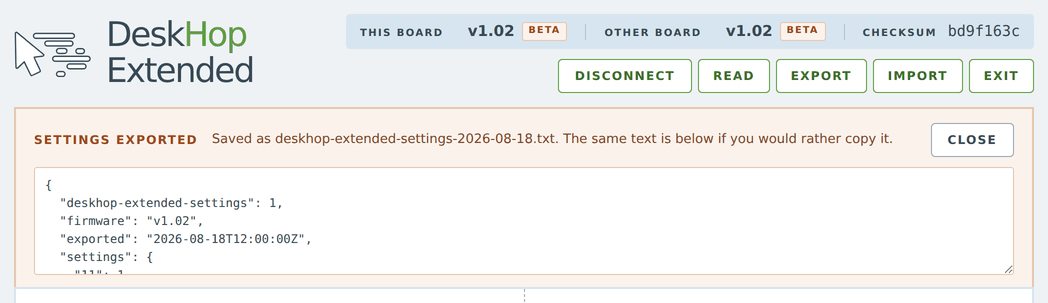
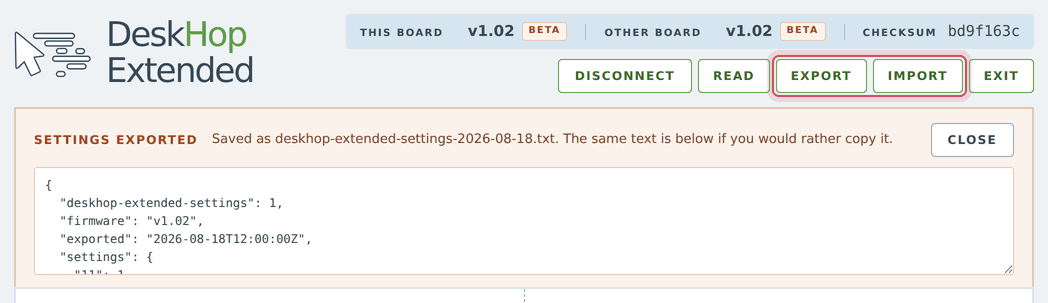
Reorder what's extended, ring the export and import buttons
Leads with what is fixed and what the page looks like now, then the settings
in the order they sit on the page, then the mechanics behind them. One rounded
ring around Export and Import in the close-up, drawn as an overlay - an outline
on each would be two rings.

Changed region(s): [[0.7328, 0.1485, 0.9466, 0.3564]]

diff --git a/misc/shoot-config-page.py b/misc/shoot-config-page.py
@@ -60,10 +60,8 @@ PAD = 14
 # Run between shots so each one is framed on a page in its resting state, whatever the
 # one before it did to get its picture taken. Keeps BOXES order-independent.
 RESET = """() => {
-    const injected = document.getElementById('shot-style');
+    document.querySelectorAll('[data-shot]').forEach(e => e.remove());
 
-    if (injected)
-      injected.remove();
     if (!el('backup').hidden)
       closeBackupHandler();
 }"""
@@ -89,7 +87,7 @@ BOXES = {
         "setup": """() => {
             const style = document.createElement('style');
 
-            style.id = 'shot-style';
+            style.dataset.shot = '';
             style.textContent = `.swap {
                 outline: 2px solid #d1495b;
                 outline-offset: 4px;
@@ -109,9 +107,36 @@ BOXES = {
     }""",
     # The whole header down through the panel, so Export and Import are in the frame next
     # to what pressing Export gets you. From the top of the header rather than the button
-    # row, which would saw the wordmark in half.
+    # row, which would saw the wordmark in half. One ring around the pair, drawn as an
+    # overlay rather than as an outline on each, which would be two rings.
     "config-backup": {
-        "setup": """() => exportHandler()""",
+        "setup": """() => {
+            exportHandler();
+
+            const box = ['exportHandler', 'importHandler']
+                .map(h => document.querySelector(`[data-handler="${h}"]`).getBoundingClientRect())
+                .reduce((a, b) => ({
+                    x: Math.min(a.x, b.x), y: Math.min(a.y, b.y),
+                    right: Math.max(a.right, b.right), bottom: Math.max(a.bottom, b.bottom),
+                }));
+            const ring = document.createElement('div');
+            const pad = 4;
+
+            ring.dataset.shot = '';
+            Object.assign(ring.style, {
+                position: 'absolute',
+                left: `${window.scrollX + box.x - pad}px`,
+                top: `${window.scrollY + box.y - pad}px`,
+                width: `${box.right - box.x + 2 * pad}px`,
+                height: `${box.bottom - box.y + 2 * pad}px`,
+                border: '2px solid #d1495b',
+                borderRadius: '7px',
+                boxShadow: '0 0 0 5px rgba(209, 73, 91, .16)',
+                pointerEvents: 'none',
+                zIndex: '50',
+            });
+            document.body.appendChild(ring);
+        }""",
         "box": """() => {
             const header = document.querySelector('.hdr').getBoundingClientRect();
             const panel = el('backup').getBoundingClientRect();

diff --git a/README.md b/README.md
@@ -1,19 +1,20 @@
 # DeskHop Extended - Fast Desktop Switching
 
-DeskHop is a small piece of open hardware - two Raspberry Pi Picos with a galvanic isolator
-between them - that lets a single keyboard and mouse drive two computers. You switch with a
+DeskHop is a small piece of open hardware (two Raspberry Pi Picos with a galvanic isolator
+between them) that lets a single keyboard and mouse drive two computers. You switch with a
 keyboard shortcut, or simply by dragging the mouse pointer off the edge of one screen and onto the
 other; the keyboard follows the mouse, so it feels like one machine. Nothing is installed on
-either computer - both just see ordinary USB HID devices - so it works across Linux, macOS and
+either computer; both just see ordinary USB HID devices, so it works across Linux, macOS and
 Windows.
 
 DeskHop Extended is a downstream integration build of
 [hrvach/deskhop](https://github.com/hrvach/deskhop). All the hardware, the design and effectively
 all of the firmware are upstream's work. This repository exists to run upstream *plus* the fixes
 that are still waiting on review there, plus two features and a rewritten config page that suit
-how I use the device day to day. If you want the canonical project, go upstream - this is for
-people who want those pending fixes now. [What's extended](#whats-extended) is the exact delta;
-everything after it is upstream's own README, reproduced unchanged.
+how I use the device day to day. Upstream remains the canonical project and is the better
+starting point for most people; this build is here for anyone who would rather not wait for those
+fixes to land. [What's extended](#whats-extended) is the exact delta; everything after it is
+upstream's own README, reproduced unchanged.
 
 ## What's extended
 
@@ -34,7 +35,7 @@ so they can be used before (and regardless of whether) they land upstream:
 
 The PIO USB host library in `Pico-PIO-USB/` is a vendored copy of upstream 0.5.3. Upstream has moved
 on to 0.7.2, but its 0.6.0 rewrite replaced the transmit encoder and the PIO allocation, which the
-bundled TinyUSB host controller driver was never built against - so rather than bump the whole
+bundled TinyUSB host controller driver was never built against. Rather than bump the whole
 library, these fixes are backported onto the 0.5.3 base:
 
 - [512d3a2](https://github.com/sekigon-gonnoc/Pico-PIO-USB/commit/512d3a2) - puts `calc_usb_crc16`
@@ -50,10 +51,67 @@ library, these fixes are backported onto the 0.5.3 base:
 
 Also completed here: the edge-detector fix carried in the vendored `usb_rx.pio` had never actually
 been built. The generated `usb_rx.pio.h` sitting next to `pio_usb.c` wins the `#include` over the
-one CMake generates, and it had not been regenerated - so the shipped binary kept the 0.5.3 program.
+one CMake generates, and it had not been regenerated, so the shipped binary kept the 0.5.3 program.
 The `.pio` source was also missing the `in pins, 1` capture that upstream's version of the same fix
 keeps, without which end-of-packet is never signalled. Both edge-detector programs now match
 upstream 0.7.2 instruction for instruction, and the checked-in header is regenerated from them.
+
+### Rewritten web config page
+
+Upstream's page is already a single page with Output A and Output B side by side, but each output is
+a flat list of raw fields, with a button column on the left and Common Config / Device Status
+underneath. This rewrite keeps the two output columns and groups each one into labelled
+sections: operating system, arrangement (screen count, side, monitor diagram, screen alignment),
+cursor (park preview, speed) and keep awake (mode preview, idle toggle, timers). All of it is
+driven by segmented pickers, steppers and toggles rather than bare inputs. Shared settings sit below both columns, the device
+buttons move into the header, and Save becomes a sticky footer with an unsaved-changes indicator.
+Same WebHID protocol and same 64 kB flash budget. See
+[Web configuration mode](#web-configuration-mode) for how to reach it.
+
+![The rewritten DeskHop Extended config page](img/config-page-extended.png)
+
+<p align="center"><em>The top of the page: both outputs side by side, down through Arrangement.
+Cursor, Keep awake and the shared settings continue below it. Values shown are a sample
+configuration.</em></p>
+
+Because upstream's README below is reproduced unchanged, its screenshots and its instruction to
+"click *exit* in the menu" still show upstream's page. On this build, Exit sits in the header.
+Everything else in those steps applies as written.
+
+### Both boards on one page
+
+The header shows the firmware version of the board you are connected to and of the other
+one, flagging it when the two differ. The version was already crossing the link once a
+second in the heartbeat and being discarded; it is now kept and exposed read-only. A dash
+means nothing has been heard from the other board: it is unpowered, or the link is down.
+
+Worth having because the boards push firmware at each other automatically when their
+versions differ, so a half-finished propagation is a state you want to be able to see.
+
+### Export and import settings
+
+Export saves every setting the page exposes to a `.txt` file; Import reads one back, either
+by picking the file or by pasting it in. Settings are keyed by the numbers in `api_field_map`
+(`src/protocol.c`), which name a field rather than a position in the config struct, so an
+export stays readable across firmware versions that add, drop or reorder fields. Unknown
+keys are reported and skipped rather than silently misapplied. Import only fills in the page;
+nothing reaches the device until you press Save.
+
+![Export and Import in the header, and the panel Export opens](img/config-backup.png)
+
+<p align="center"><em>Export writes the file and shows the same text in the panel, in case you
+would rather copy it than keep a download.</em></p>
+
+### Swapping the output columns
+
+Which output is drawn in the left-hand column is a saved setting, so the page can match how
+the boards actually sit on your desk. Output A is drawn first by default; the Swap control
+in the top right of the output bar flips it, and the choice is stored on the device.
+
+![The output bar with the Swap control](img/config-swap.png)
+
+It is stored in four bytes that were already reserved in `config_t`, which keeps
+`sizeof(config_t)` unchanged and the migration from pre-key-value configs intact.
 
 ### Edge double-tap to switch
 
@@ -70,32 +128,10 @@ configurable from the web config page or in `src/include/user_config.h`
 The keyboard keeps working in pre-boot environments that only speak the 8-byte HID boot protocol,
 such as UEFI setup and the BitLocker PIN prompt.
 
-### Rewritten web config page
-
-Upstream's page is already a single page with Output A and Output B side by side, but each output is
-a flat list of raw fields, with a button column on the left and Common Config / Device Status
-underneath. This rewrite keeps the two output columns and groups each one into labelled sections -
-operating system, arrangement (screen count, side, monitor diagram, screen alignment), cursor (park
-preview, speed) and keep awake (mode preview, idle toggle, timers) - driven by segmented pickers,
-steppers and toggles rather than bare inputs. Shared settings sit below both columns, the device
-buttons move into the header, and Save becomes a sticky footer with an unsaved-changes indicator.
-Same WebHID protocol and same 64 kB flash budget - see
-[Web configuration mode](#web-configuration-mode) for how to reach it.
-
-![The rewritten DeskHop Extended config page](img/config-page-extended.png)
-
-<p align="center"><em>The top of the page: both outputs side by side, down through Arrangement.
-Cursor, Keep awake and the shared settings continue below it. Values shown are a sample
-configuration.</em></p>
-
-Because upstream's README below is reproduced unchanged, its screenshots and its instruction to
-"click *exit* in the menu" still show upstream's page - on this build, Exit sits in the header.
-Everything else in those steps applies as written.
-
 ### Settings survive firmware changes
 
 Upstream stores the configuration as a dump of `config_t` and throws the whole thing away
-whenever `CURRENT_CONFIG_VERSION` moves, which it has to whenever a field is added - so
+whenever `CURRENT_CONFIG_VERSION` moves, which it has to whenever a field is added, so
 adding one setting costs you all of them. This build stores `{key, length, value}` triples
 keyed by the numbers in `api_field_map` (`src/protocol.c`), which name a field rather than a
 position in the struct. Fields can be added, removed or reordered without invalidating what
@@ -108,50 +144,15 @@ this version does not cost you your settings either. The format is exercised on 
 `misc/hosttest/run.sh`, which builds the real `src/config_store.c` against a byte array
 standing in for the flash page.
 
-### Both boards on one page
-
-The header shows the firmware version of the board you are connected to and of the other
-one, flagging it when the two differ. The version was already crossing the link once a
-second in the heartbeat and being discarded; it is now kept and exposed read-only. A dash
-means nothing has been heard from the other board - it is unpowered, or the link is down.
-
-Worth having because the boards push firmware at each other automatically when their
-versions differ, so a half-finished propagation is a state you want to be able to see.
-
-### Swapping the output columns
-
-Which output is drawn in the left-hand column is a saved setting, so the page can match how
-the boards actually sit on your desk. Output A is drawn first by default; the Swap control
-in the top right of the output bar flips it, and the choice is stored on the device.
-
-![The output bar with the Swap control](img/config-swap.png)
-
-It is stored in four bytes that were already reserved in `config_t`, which keeps
-`sizeof(config_t)` unchanged and the migration from pre-key-value configs intact.
-
-### Export and import settings
-
-Export saves every setting the page exposes to a `.txt` file; Import reads one back, either
-by picking the file or by pasting it in. Settings are keyed by the numbers in `api_field_map`
-(`src/protocol.c`), which name a field rather than a position in the config struct, so an
-export stays readable across firmware versions that add, drop or reorder fields - unknown
-keys are reported and skipped rather than silently misapplied. Import only fills in the page;
-nothing reaches the device until you press Save.
-
-![Export and Import in the header, and the panel Export opens](img/config-backup.png)
-
-<p align="center"><em>Export writes the file and shows the same text in the panel, in case you
-would rather copy it than keep a download.</em></p>
-
 ### Upgrading the firmware
 
 Press **Left Ctrl + Right Shift + C + O**. The board your keyboard is plugged into reboots
-as a USB drive called DESKHOP - the same drive this build's config page is served from.
+as a USB drive called DESKHOP, the same drive this build's config page is served from.
 Copy the `.uf2` onto it. The device verifies the image, flashes itself and reboots, then
 upgrades the other board, with the LED blinking throughout; once that finishes it writes
 flash and reboots to complete the operation.
 
-That second half - one board carrying the new firmware to the other - is what
+That second half, one board carrying the new firmware to the other, is what
 [#360](https://github.com/hrvach/deskhop/pull/360) repairs. If a board ends up in a state
 where none of this works, holding its on-board button while plugging it in always reaches
 the ROM bootloader, whatever the device is doing.
@@ -173,7 +174,7 @@ will not pick up the change.
 
 For the image, either `./create.sh` in `disk/`, which loop-mounts and so needs sudo, or
 `misc/rebuild-disk-image.py`, which edits the committed image in place and needs no root. The
-two produce the same bytes - `misc/rebuild-disk-image.py --selftest` rebuilds the committed
+two produce the same bytes: `misc/rebuild-disk-image.py --selftest` rebuilds the committed
 image from its own page and checks the result matches byte for byte.
 
 `make render` also writes `webconfig/config-test.htm`, which is not part of the image and never
@@ -185,12 +186,12 @@ the page without a board on the desk, and for seeing what a button actually puts
 
 ### Versioning
 
-This build numbers itself independently of upstream - starting at 1.0 rather than continuing
-upstream's 0.x - and the config page marks it **beta**. It is a small project's first
+This build numbers itself independently of upstream, starting at 1.0 rather than continuing
+upstream's 0.x, and the config page marks it **beta**. It is a small project's first
 release, so treat it as one. The current version is whatever `CMakeLists.txt` says; the
 config page shows it, and the board reports it over the link.
 
-Minor numbers read to two digits - v1.00, v1.01, v1.02 - and only the printed form is
+Minor numbers read to two digits (v1.00, v1.01, v1.02), and only the printed form is
 padded; the version the boards exchange is the same `major * 1000 + minor + 100` as ever.
 Note that a board only accepts firmware from the other one when that board reports a
 *higher* number, so installing a lower version than the pair is already running means
@@ -200,7 +201,7 @@ The number is deliberately above upstream's, and not only for labelling: a board
 firmware from the other one when the other reports a *higher* version
 (`handle_heartbeat_msg`), so being above upstream is what lets you flash one board and have
 the second follow, rather than the reverse. "beta" is a label rendered onto the config page
-from `VERSION_SUFFIX` in `CMakeLists.txt` - the version the boards exchange is a `uint16`
+from `VERSION_SUFFIX` in `CMakeLists.txt`; the version the boards exchange is a `uint16`
 with no room for a suffix.
 
 ------
